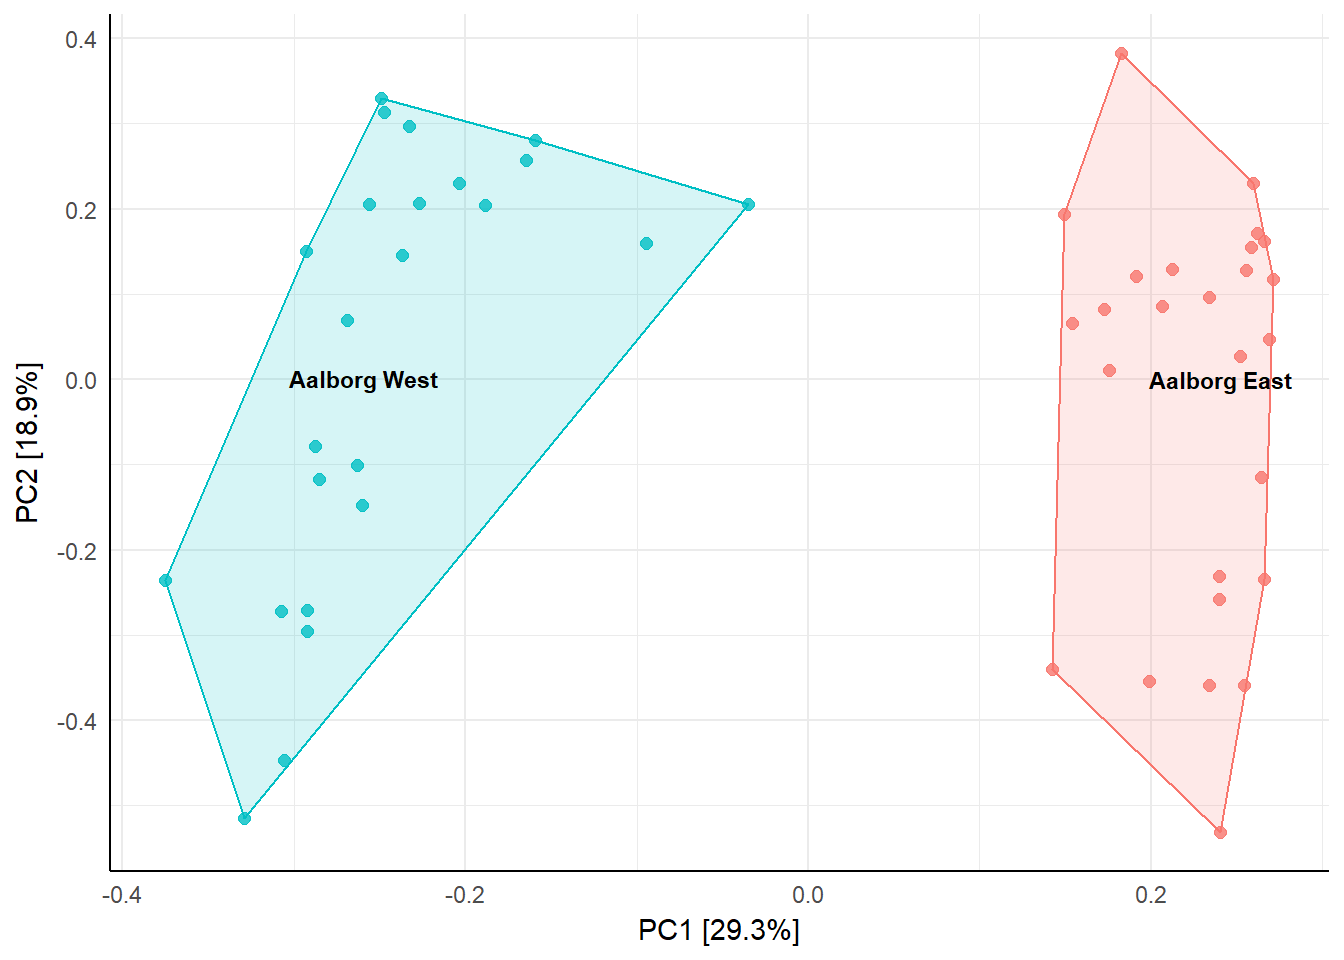
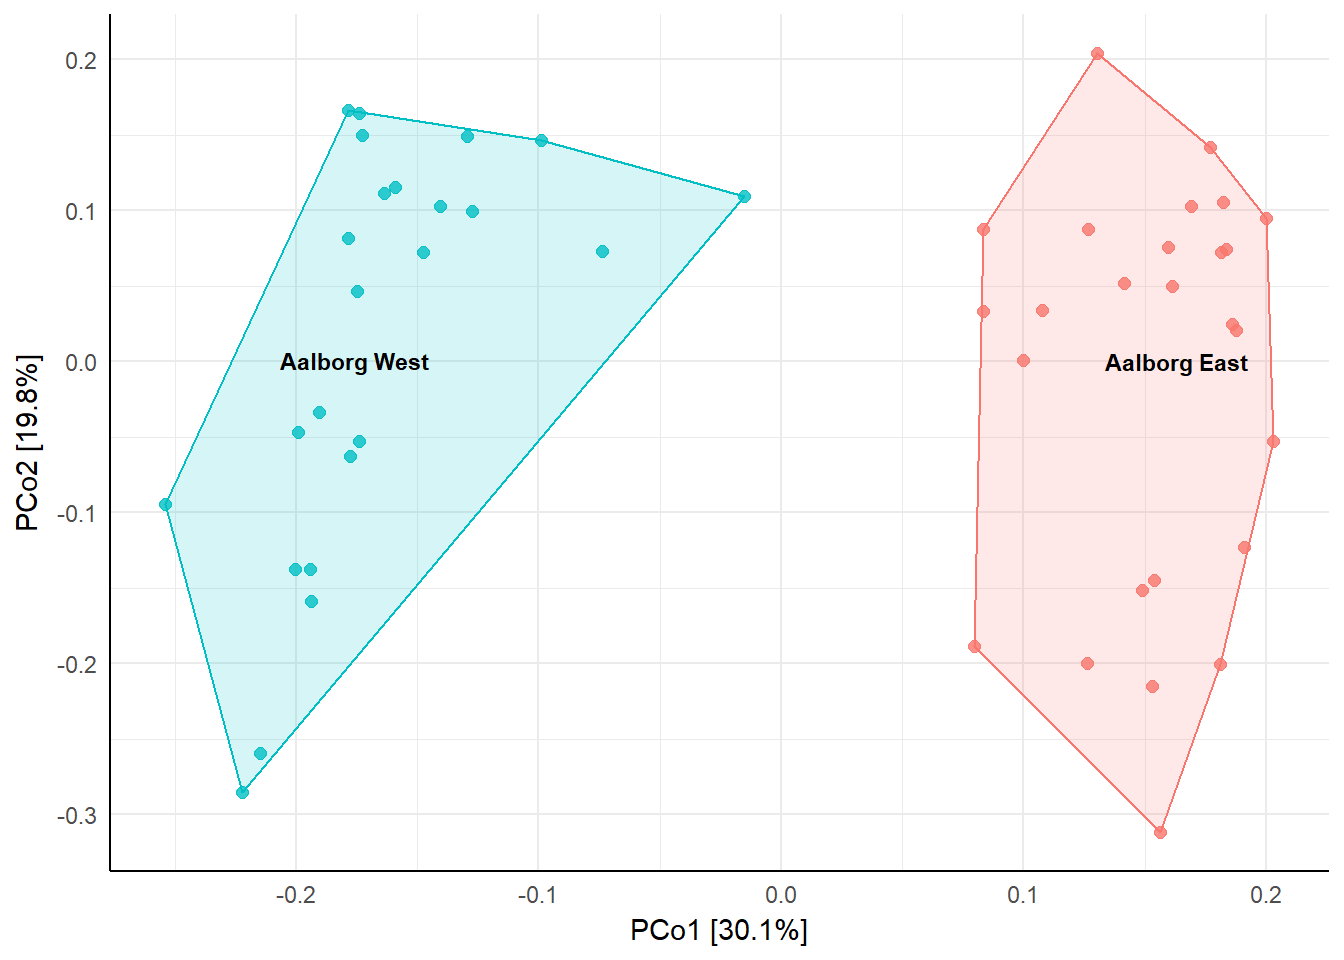
documentation

diff --git a/docs/articles/ampvis2.html b/docs/articles/ampvis2.html
@@ -149,22 +149,45 @@ ds &lt;-<span class="st"> </span><span class="kw"><a href="../reference/amp_subs
 <div id="ordination" class="section level1">
 <h1 class="hasAnchor">
 <a href="#ordination" class="anchor"></a>Ordination</h1>
-<p>The <code><a href="../reference/amp_ordinate.html">amp_ordinate()</a></code> function has been expanded to support 7 different ordination methods, various data transformations and interactive plots by using <a href="https://plot.ly/">Plotly</a>. By default any OTU with an abundance no higher than 0.1% in any sample is removed, which drastically improves the calculation time. You can of course adjust this threshold manually by changing the <code>filter_species = 0.1</code> argument. Other than this, there are only four main arguments that are involved in the actual calculations, the rest are just various plotting features. These four are <code>type = ""</code>, <code>transform = ""</code>, <code>distmeasure = ""</code>, and <code>constrain = ""</code> for constrained ordination (only used in Redundancy Analysis (RDA) or Canonical Correspondence Analysis (CCA)).</p>
-<div class="sourceCode"><pre class="sourceCode r"><code class="sourceCode r"><span class="kw"><a href="../reference/amp_ordinate.html">amp_ordinate</a></span>(ds, 
-             <span class="dt">transform =</span> <span class="st">"hellinger"</span>,
-             <span class="dt">type =</span> <span class="st">"PCA"</span>,
-             <span class="dt">sample_color =</span> <span class="st">"Plant"</span>,
-             <span class="dt">sample_colorframe =</span> <span class="ot">TRUE</span>,
-             <span class="dt">sample_colorframe_label =</span> <span class="st">"Plant"</span>) +<span class="st"> </span><span class="kw">theme</span>(<span class="dt">legend.position =</span> <span class="st">"blank"</span>)</code></pre></div>
-<p><img src="ampvis2_files/figure-html/unnamed-chunk-11-1.png" width="672"></p>
+<p>The <code><a href="../reference/amp_ordinate.html">amp_ordinate()</a></code> function has been expanded to support 7 different ordination methods, various data transformations and interactive plots by using <a href="https://plot.ly/">Plotly</a>. By default any OTU with an abundance no higher than 0.1% in any sample is removed, which drastically improves the calculation time. You can of course adjust this threshold manually by changing the <code>filter_species = 0.1</code> argument. Other than this, there are only four main arguments that are involved in the actual calculations, the rest are just various plotting features. These four are <code>type = ""</code>, <code>transform = ""</code>, <code>distmeasure = ""</code>, and lastly <code>constrain = ""</code> for constrained ordination (only used in Redundancy Analysis (RDA) or Canonical Correspondence Analysis (CCA)).</p>
 <p>When analysing microbial community composition data it is recommended to use the Hellinger transformation (see <a href="https://doi.org/10.1007/s004420100716">Legendre et al, 2001</a> or <a href="https://www.elsevier.com/books/numerical-ecology/legendre/978-0-444-53868-0">Numerical Ecology</a> for details) for most types of ordination methods except the distance-based ordination methods (Principal Coordinates Analysis (PCoA) and non-Metric Multidimensional Scaling (nMDS)), where you also have to select a distance measure manually by the <code>distmeasure = ""</code> argument, for example Bray-Curtis dissimilarities:</p>
 <div class="sourceCode"><pre class="sourceCode r"><code class="sourceCode r"><span class="kw"><a href="../reference/amp_ordinate.html">amp_ordinate</a></span>(ds, 
              <span class="dt">type =</span> <span class="st">"pcoa"</span>,
              <span class="dt">distmeasure =</span> <span class="st">"bray"</span>,
              <span class="dt">sample_color =</span> <span class="st">"Plant"</span>,
              <span class="dt">sample_colorframe =</span> <span class="ot">TRUE</span>,
-             <span class="dt">sample_colorframe_label =</span> <span class="st">"Plant"</span>)</code></pre></div>
+             <span class="dt">sample_colorframe_label =</span> <span class="st">"Plant"</span>) +<span class="st"> </span><span class="kw">theme</span>(<span class="dt">legend.position =</span> <span class="st">"blank"</span>)</code></pre></div>
+<p><img src="ampvis2_files/figure-html/unnamed-chunk-11-1.png" width="672"></p>
+<p>And lastly an example of constrained ordination by Canonical Correspondence Analysis (CCA), which in this case reveals how samples taken at different seasonal periods (<code>constrain = "Period"</code>) of the year can explain the data:</p>
+<div class="sourceCode"><pre class="sourceCode r"><code class="sourceCode r">ordinationresult &lt;-<span class="st"> </span><span class="kw"><a href="../reference/amp_ordinate.html">amp_ordinate</a></span>(ds, 
+             <span class="dt">type =</span> <span class="st">"CCA"</span>,
+             <span class="dt">constrain =</span> <span class="st">"Period"</span>,
+             <span class="dt">transform =</span> <span class="st">"Hellinger"</span>,
+             <span class="dt">sample_color =</span> <span class="st">"Period"</span>,
+             <span class="dt">sample_shape =</span> <span class="st">"Plant"</span>,
+             <span class="dt">sample_colorframe =</span> <span class="ot">TRUE</span>,
+             <span class="dt">sample_colorframe_label =</span> <span class="st">"Period"</span>,
+             <span class="dt">output =</span> <span class="st">"detailed"</span>)
+ordinationresult$plot</code></pre></div>
 <p><img src="ampvis2_files/figure-html/unnamed-chunk-12-1.png" width="672"></p>
+<p>Notice that the plot can be saved as a more detailed object (<code>output = "detailed"</code>), so additional details about the ordination result can be obtained:</p>
+<div class="sourceCode"><pre class="sourceCode r"><code class="sourceCode r">ordinationresult$model</code></pre></div>
+<pre><code>## Call: cca(formula = inputmatrix ~ Period, data = data$metadata)
+## 
+##               Inertia Proportion Rank
+## Total         0.35213    1.00000     
+## Constrained   0.03536    0.10042    3
+## Unconstrained 0.31676    0.89958   46
+## Inertia is mean squared contingency coefficient 
+## 
+## Eigenvalues for constrained axes:
+##     CCA1     CCA2     CCA3 
+## 0.025575 0.005931 0.003854 
+## 
+## Eigenvalues for unconstrained axes:
+##     CA1     CA2     CA3     CA4     CA5     CA6     CA7     CA8 
+## 0.09566 0.05239 0.02088 0.01384 0.01193 0.01123 0.00923 0.00768 
+## (Showed only 8 of all 46 unconstrained eigenvalues)</code></pre>
 </div>
 </div>
   </div>
